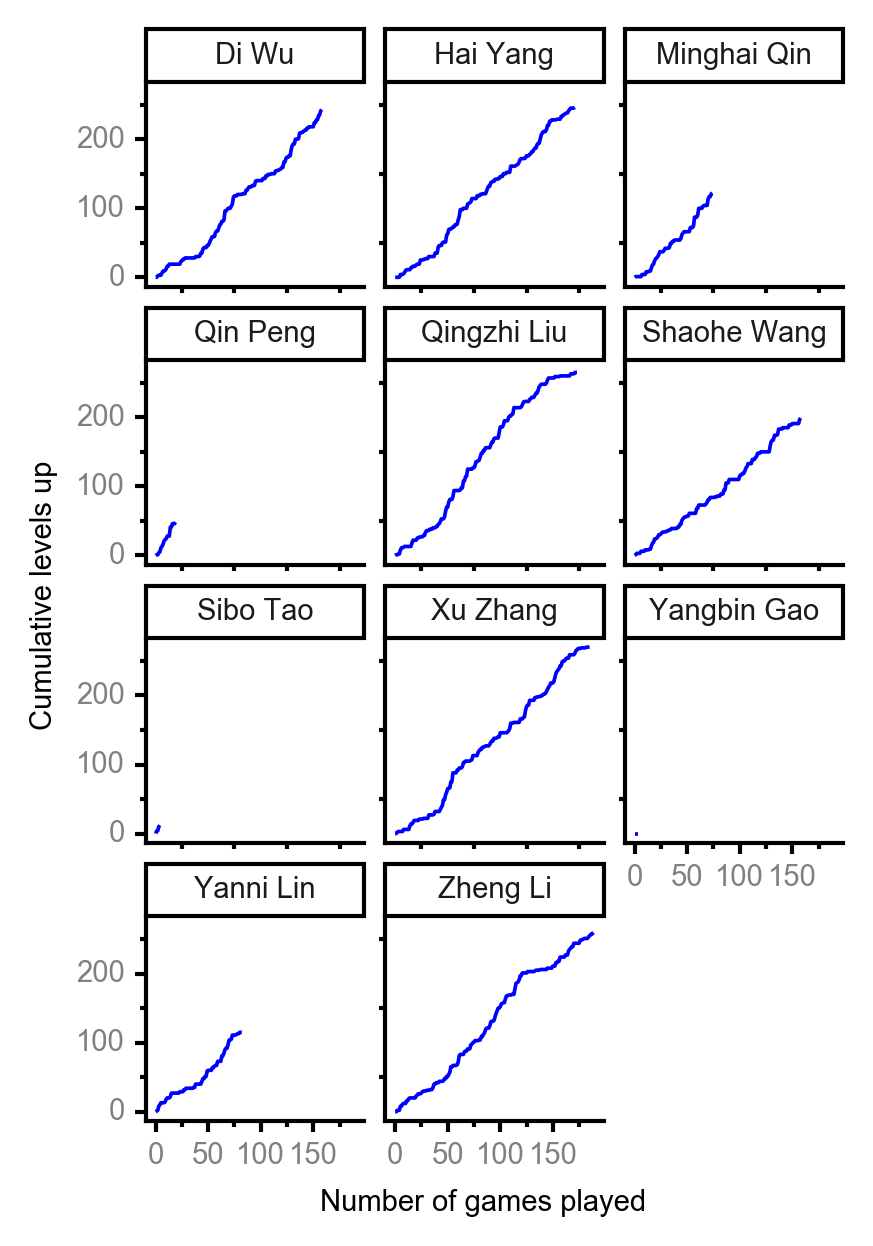
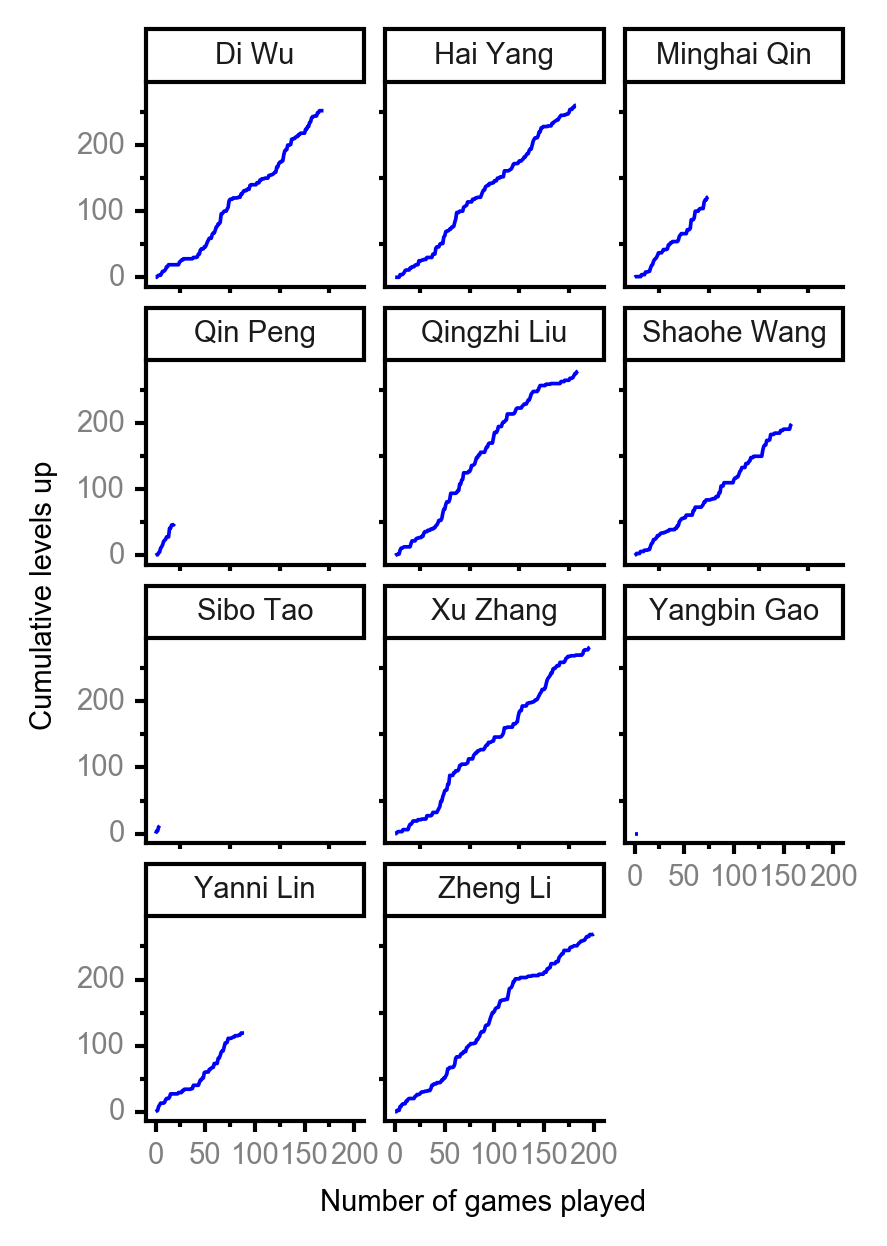
update player stats

diff --git a/player_stats.md b/player_stats.md
@@ -14,14 +14,14 @@ date: 2021-03-14
 
 | <br><br><br>Rank | <br><br><br>Player | <br> Lifetime <br> levels <br> up | <br><br> Winning <br> rate | <br> Average <br> levels <br> up | <br> Total <br> games <br> played | Games <br> played <br> as <br> MVP | Games <br> played <br> as <br> dealer | N_games <br> short <br> staffed <br> as dealer | Winning <br> rate <br> as <br> dealer |
 |:---:|:---:|:---:|:---:|:---:|:---:|:---:|:---:|:---:|:---:|
-| 1 | Xu <br> Zhang | 270 | 52.2% | 2.78 | 186 | 10 | 34 | 1 | 50.0% |
-| 2 | Qingzhi <br> Liu | 265 | 50.6% | 3.01 | 174 | 11 | 28 | 3 | 50.0% |
-| 3 | Zheng <br> Li | 259 | 54.7% | 2.49 | 190 | 6 | 28 | 0 | 64.3% |
-| 4 | Hai <br> Yang | 246 | 51.2% | 2.80 | 172 | 13 | 33 | 1 | 54.5% |
-| 5 | Di <br> Wu | 243 | 48.4% | 3.16 | 159 | 10 | 28 | 0 | 39.3% |
+| 1 | Xu <br> Zhang | 282 | 52.3% | 2.74 | 197 | 11 | 36 | 1 | 50.0% |
+| 2 | Qingzhi <br> Liu | 279 | 51.4% | 2.94 | 185 | 11 | 33 | 3 | 48.5% |
+| 3 | Zheng <br> Li | 276 | 54.7% | 2.51 | 201 | 6 | 30 | 0 | 63.3% |
+| 4 | Hai <br> Yang | 267 | 51.4% | 2.84 | 183 | 13 | 34 | 1 | 52.9% |
+| 5 | Di <br> Wu | 259 | 48.2% | 3.16 | 170 | 11 | 29 | 0 | 37.9% |
 | 6 | Shaohe <br> Wang | 199 | 44.0% | 2.84 | 159 | 7 | 25 | 2 | 36.0% |
 | 7 | Minghai <br> Qin | 123 | 53.3% | 3.08 | 75 | 1 | 11 | 1 | 72.7% |
-| 8 | Yanni <br> Lin | 115 | 47.0% | 2.95 | 83 | 10 | 8 | 2 | 37.5% |
+| 8 | Yanni <br> Lin | 119 | 45.6% | 2.90 | 90 | 10 | 8 | 2 | 37.5% |
 | 9 | Qin <br> Peng | 51 | 75.0% | 3.40 | 20 | 2 | 2 | 0 | 100.0% |
 | 10 | Sibo <br> Tao | 14 | 80.0% | 3.50 | 5 | 0 | 0 | 0 | 0.0% |
 | 11 | Yangbin <br> Gao | 0 | 0.0% | 0.00 | 4 | 0 | 0 | 0 | 0.0% |
